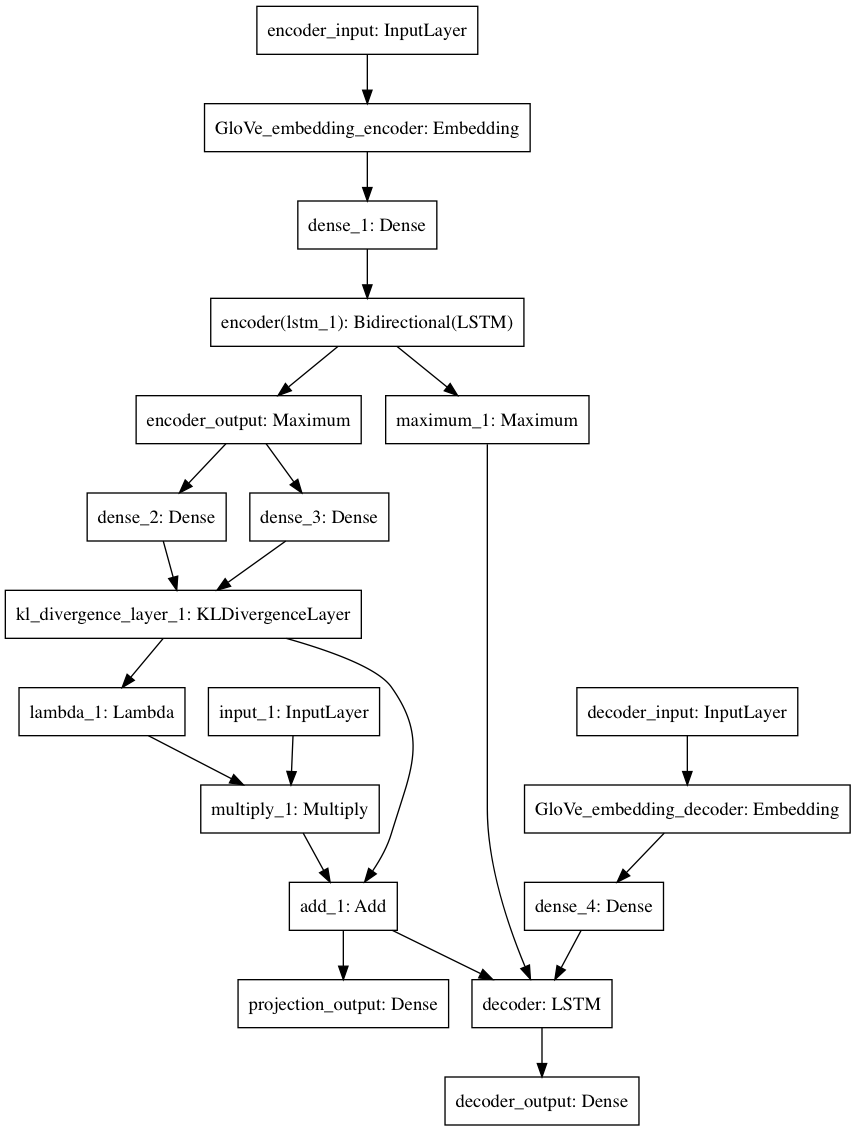
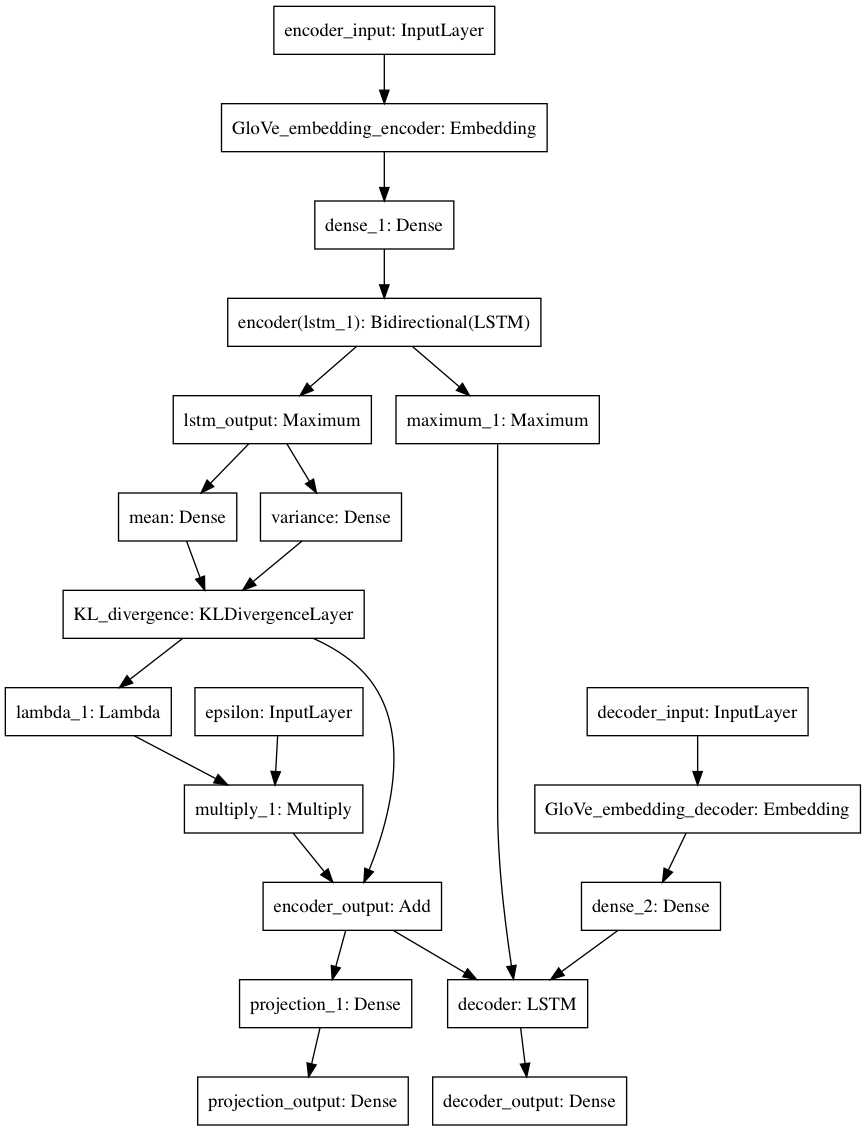
encoder now outputs mean and variance

diff --git a/models/prototypes/baseline.py b/models/prototypes/baseline.py
@@ -188,16 +188,25 @@ class Vae2All(Cap2Cap, Cap2Img):
 		self.model_type = 'vae2all'
 
 	def _variational(self, x):
-		z_mu = Dense(self.h_params.hidden_dim)(x)
-		z_log_var = Dense(self.h_params.hidden_dim)(x)
+		z_mu = Dense(self.h_params.hidden_dim, name='mean')(x)
+		z_log_var = Dense(self.h_params.hidden_dim, name='variance')(x)
 
 		z_mu, z_log_var = KLDivergenceLayer(name='KL_divergence')([z_mu, z_log_var])
 		z_sigma = Lambda(lambda t: K.exp(.5*t))(z_log_var)
 		eps = Input(tensor=K.random_normal(shape=(K.shape(x)[0],
-		                                          self.h_params.hidden_dim)))
+		                                          self.h_params.hidden_dim)), name='epsilon')
 		z_eps = Multiply()([z_sigma, eps])
 		z = Add(name=self.encoder_output)([z_mu, z_eps])
 		return z, eps
+
+	def _encoder_model(self):
+		input_layer_1 = self.model.get_layer(name=self.encoder_input).input
+		input_layer_2 = self.model.get_layer(name='epsilon').input
+		output_layer = self.model.get_layer(name=self.encoder_output).output
+		mean = self.model.get_layer(name='mean').output
+		variance = self.model.get_layer(name='variance').output
+		model = Model(inputs=[input_layer_1, input_layer_2], outputs=[output_layer, mean, variance])
+		return model
 
 	def _encoder(self):
 		## Encoder ##
@@ -225,7 +234,7 @@ class Vae2All(Cap2Cap, Cap2Img):
 		projection_output_2 = self._projection(projection_output)
 		decoder_input, decoder_output = self._decoder([z, encoder_out_cell])
 		inputs = [encoder_input, decoder_input, eps]
-		outputs = [projection_output, decoder_output]
+		outputs = [projection_output_2, decoder_output]
 		return inputs, outputs
 
 
@@ -249,6 +258,7 @@ if __name__ == '__main__':
 						latent_dim=1000)
 	cap2 = Vae2All(hparams, embeddings=embedding_matrix)
 	cap2.compile()
+	cap2.visualize()
 	encoder = cap2.get_encoder()
 	path = './models/visualization/{0}.png'.format('encoder')
 	plot_model(encoder, to_file=path)
